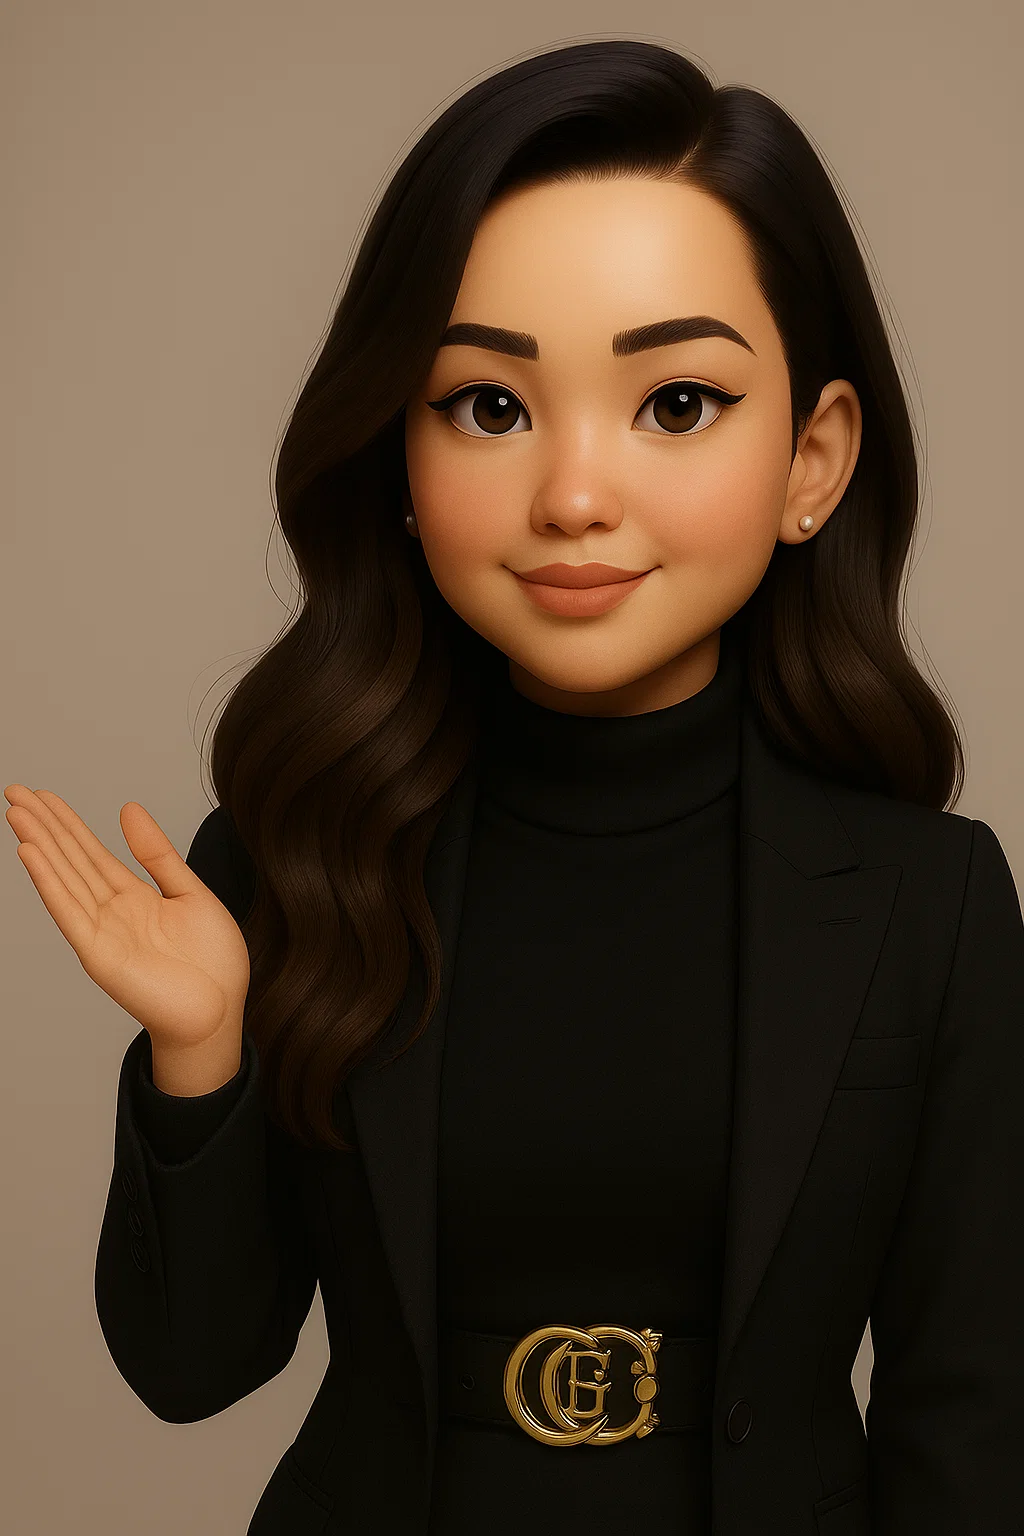
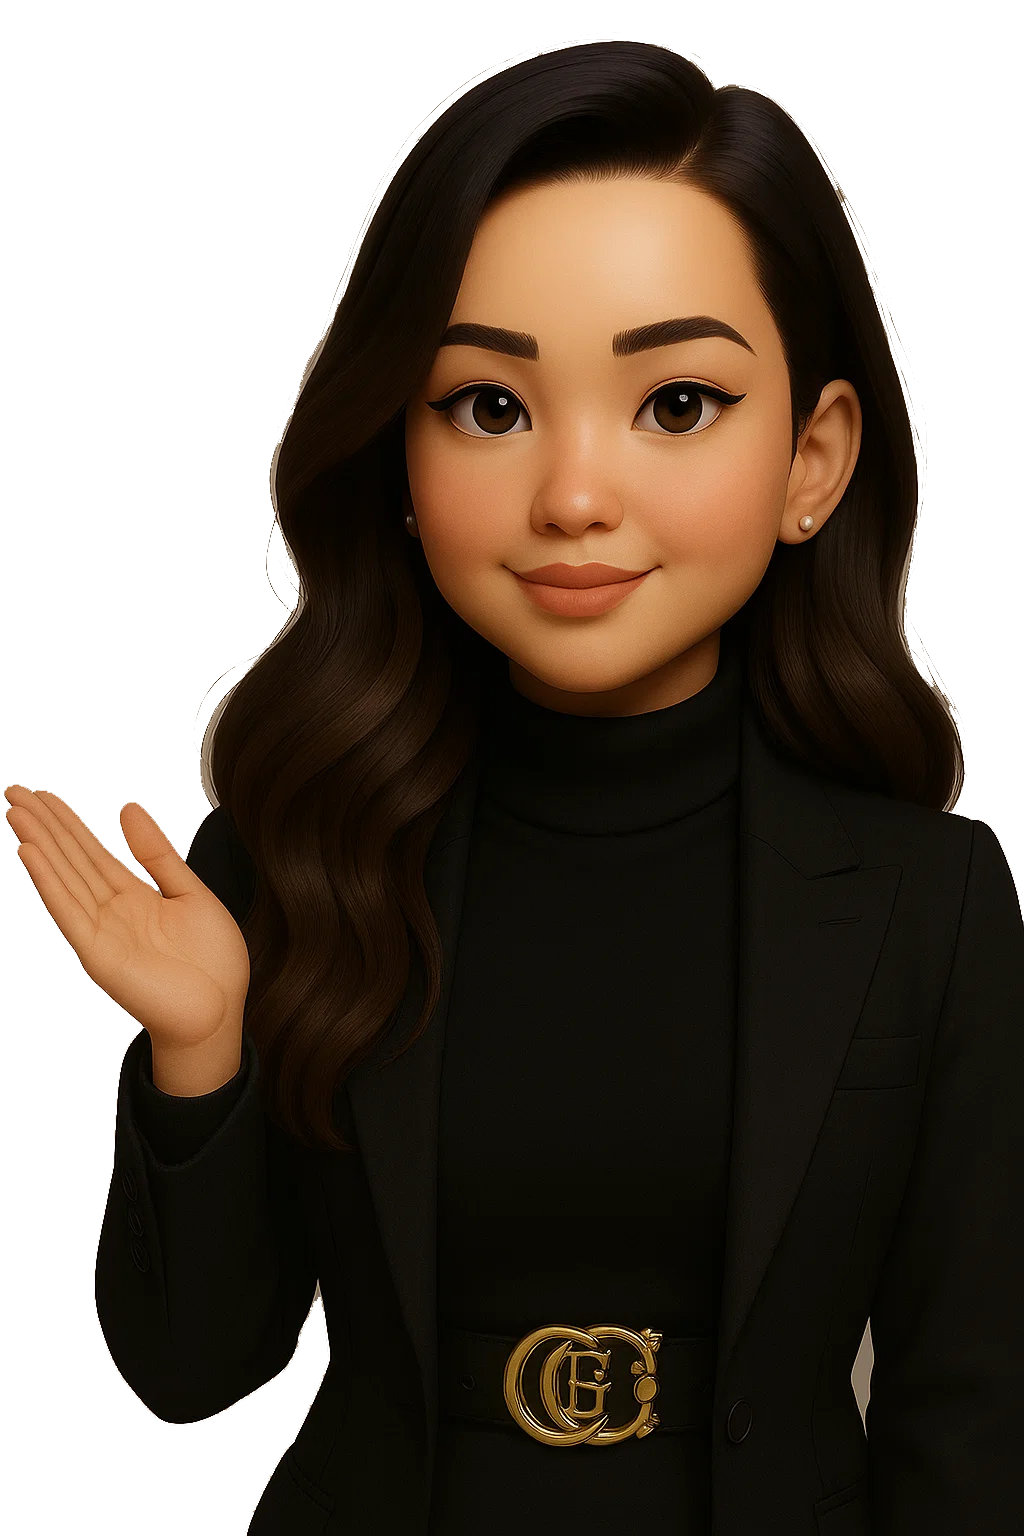
[PROJET-fix] nova imagem

diff --git a/css/estilo.css b/css/estilo.css
@@ -725,3 +725,23 @@ nav ul ul li {
 }
 
 
+.avatar-destaque {
+  position: relative;
+  width: 100%;
+  height: 0;
+  z-index: 15;
+}
+
+.avatar-destaque-img {
+  position: absolute;
+  right: 3%;
+  top: -230px;
+  width: min(220px, 25vw);
+  height: auto;
+  border-radius: 16px;
+  width: 12%;
+}
+
+
+
+

diff --git a/index.php b/index.php
@@ -297,6 +297,10 @@ $adminLogado = isset($_SESSION['usuario_id']);
                 </section>
 
 
+                <div class="avatar-destaque">
+                    <img src="img/avatar/07.png" alt="Cliente destaque" class="avatar-destaque-img">
+                </div>
+
                 <!-- Foto da Profissional -->
                 <section id="secao-foto" class="secao-foto">
                     <img src="img/profissional/quenia01.png" alt="Quênia Salomé" class="foto-quenia">
